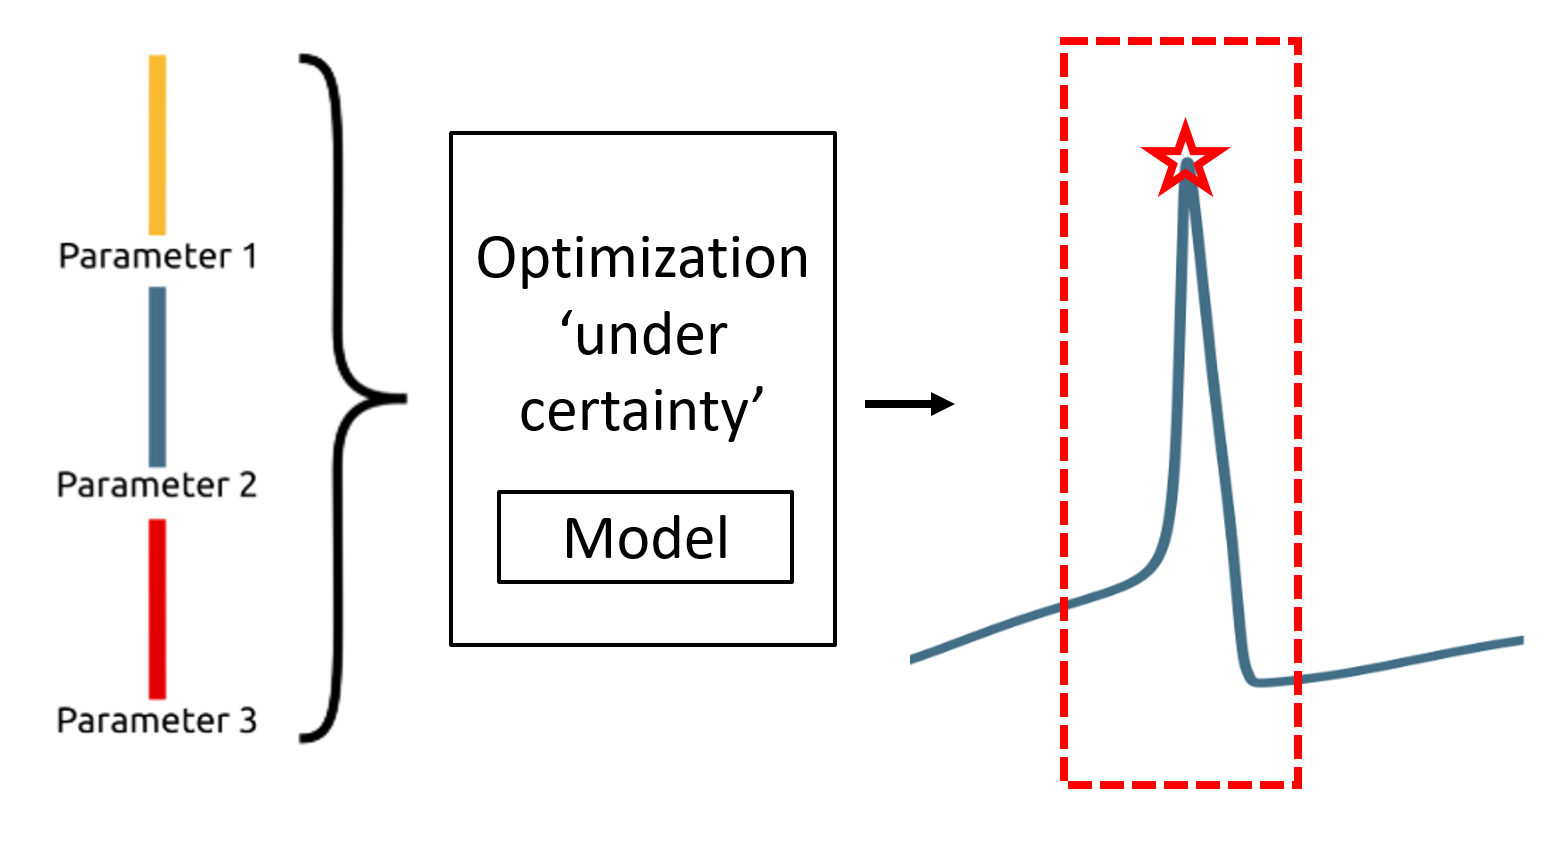
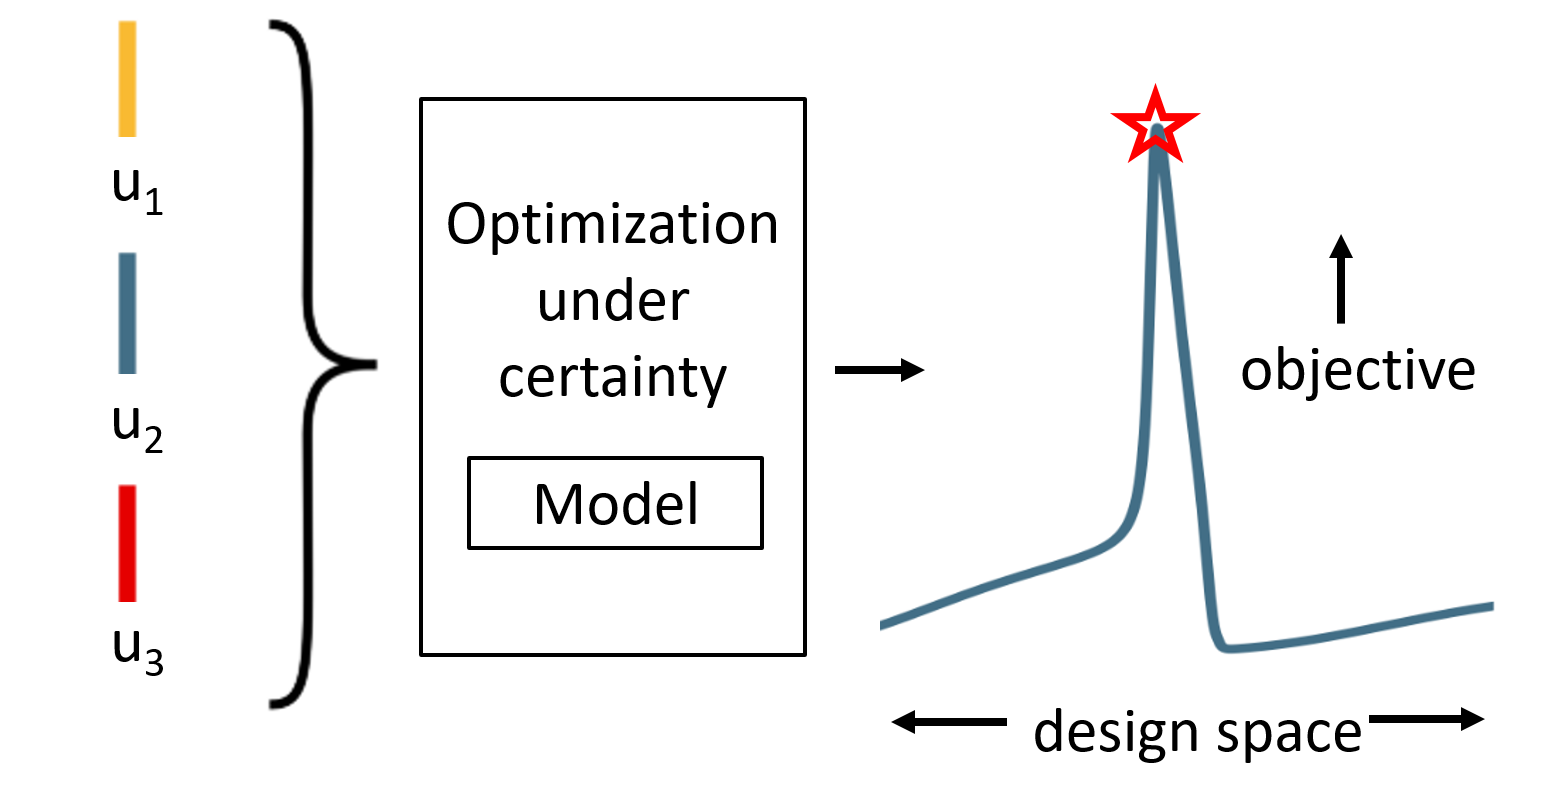
Model updates, figures, definition ro vs. so.

diff --git a/latex/introduction.tex b/latex/introduction.tex
@@ -74,7 +74,7 @@ design envelope for robust aircraft design.
 Furthermore, Liem et al. generate probability distributions
 of uncertain parameters and minimize the expectation of an objective function over
 parameter distributions~\cite{Liem2017}. Much like the proposed \gls{rsp} formulation,
-Liem's method converts a stochastic design problem into a deterministic problem
+Liem et al. convert a stochastic design problem into a deterministic problem
 to improve its tractability.
 Although these multi-point methods demonstrate significant improvements over
 legacy design methods in terms of design robustness,
@@ -90,22 +90,56 @@ More notably, they lack rigorous mathematical assessments of design feasibility
 under uncertain parameters.}
 
 There are two rigorous approaches to solving design optimization problems under uncertainty,
-which are \gls{so} and \gls{ro}. Note that stochastic
+which are \gls{so} and \gls{ro}, contrasted in Figure~\ref{fig:approaches} and defined below. Note that stochastic
 optimization is an overloaded term, and exists in at least two contexts in the literature. The first is the solution
 of deterministic problems with stochastic search space exploration. The second is the solution
 of design optimization problems with stochastic parameters, which is the focus of this paper.
-In this context, \gls{so} problems deal with uncertainty by propagating the probability distributions of
-uncertain parameters through the
-physics of a design problem to ensure constraint feasibility with certain probability.
-The predominant goal of \gls{so} is to minimize some characteristics, for example moments or risk measures,
-of the probability density function of the quantity of interest~\cite{Diwekar2008}.
-\gls{ro} takes a different approach, instead choosing to make designs immune to
-uncertainties in parameters as long as the parameter values come from within a defined
-uncertainty set. As such, \gls{ro} avoids the need to propagate entire probability
-distributions by minimizing the worst-case objective outcome of a design for a
-given set over the uncertain parameters.
 
-%TODO: put stochastic vs robust optimization plots.
+{\color{blue}
+
+\begin{figure}
+\begin{center}
+    \begin{subfigure}{.51\textwidth}
+    \centering
+        \includegraphics[width=.8\linewidth]{figures/ouc.PNG}
+    \end{subfigure}
+    \begin{subfigure}{.49\textwidth}
+    \centering
+        \includegraphics[width=.9\linewidth]{figures/so.PNG}
+    \end{subfigure}
+    \begin{subfigure}{.49\textwidth}
+    \centering
+        \includegraphics[width=.9\linewidth]{figures/ro.PNG}
+    \end{subfigure}
+    \caption{\gls{so} and \gls{ro} are methods for optimization under uncertainty that use different definitions
+             of uncertain inputs and produce different objective outcomes.}
+    \label{fig:approaches}
+\end{center}
+\end{figure}
+
+\gls{so} pairs well with gradient-based approaches to solving nonlinear optimization problems
+such as those defined in ~\cite{Gallard2013},~\cite{Liem2015} and ~\cite{Liem2017}.
+These approaches implement an iterative process where
+the objective function and constraints are evaluated over an initial design, and first- and/or
+second-order information are used to converge the design towards a local optimum.
+In this context, \gls{so} problems deal with uncertainty by including
+probability distributions of the uncertain parameters in the iteration, and propagating
+the distributions through the physics of a design problem to ensure constraint feasibility with certain probability.
+The predominant goal of \gls{so} is to optimize some distributional
+characteristics, eg. the mean as in Figure~\ref{fig:approaches},
+of the probability density function of the objective~\cite{Diwekar2008}.
+
+\gls{ro} can only be applied to mathematical programs that have a robust counterpart,
+such as linear, quadratic, semidefinite and geometric programs.
+\gls{ro} takes a different approach than \gls{so} in both the form
+of uncertain inputs and the objective functions. \gls{ro} produces designs that are
+immune to constraint violations as long as the parameter values come from within a defined
+uncertainty set. The objective of \gls{ro} is to optimize the
+the worst-case objective outcome of a design for a
+given set over the uncertain parameters. As such,
+\gls{ro} avoids the need to sample and propagate probability
+distributions, and turns stochastic optimization problems into
+deterministic problems that are efficiently solved.}
 
 \subsection{Comparison of robust and stochastic optimization methods for conceptual design}
 \label{sec:robustvsstochastic}
@@ -133,8 +167,7 @@ counterpart. Thus models for \gls{ro} have to be transparent,
 and \gls{ro} cannot be applied to black box models without significant prior data
 manipulation at a minimum. A mitigating factor is that
 many classes of conceptual engineering design problems can be cast or approximated in a form that
-is compatible with robust optimization, such as linear, quadratic, semidefinite
-and geometric programs.
+is compatible with robust optimization.
 
 On the other hand, \gls{ro} is more tractable than \gls{so} due to the difference in method of uncertainty propagation.
 As aforementioned, \gls{so} methods involve the propagation of probability densities throughout a model

diff --git a/review_files/responses.tex b/review_files/responses.tex
@@ -41,23 +41,21 @@ Abstract has been updated to emphasize the caveat: "provided that each constrain
 
 The bullets have been reworded and converted to prose as suggested. 
 
-\textit{pg. 3: The following references use a multimission/multipoint approach that go beyond the naive approach mentioned in the introduction. They are based on probability density functions and/or actual flight data and should be cited:}
+\textit{pg. 3: The following references use a multimission/multipoint approach that go beyond the naive approach mentioned in the introduction. They are based on probability density functions and/or actual flight data and should be cited...}
 
 All three references have been cited and added to the the literature on multimission/multipoint approaches on pg. 3. 
-We have attempted to explain and constrast the approaches in the Gallard and Liem papers
+We have attempted to explain and contrast the approaches in the [Gallard 2013] and [Liem 2015,2017] papers
 with our method. 
 
-\textit{pg. 3: SO and RO are not well defined and their relation is not clear. An example of these two methods in a given application might help.}
+\textit{pg. 3: SO and RO are not well defined and their relation is not clear. 
+An example of these two methods in a given application might help.}
 
-TODO: Perhaps talk about Monte Carlo? Give some examples of 
+On pg. 3, I have  clarified the contexts in which each method is used, 
+and added a figure to illustrate the relationships between the parameter inputs
+and objective functions of each problem. 
 
-Simplest stochastic methods are based on Monte Carlo sampling of known distributions, and applying these to engineering
-constraints with uncertain parameters of known or estimate distributions.
-
-In reality, distributions don't exist. 
-
-
-\textit{pg. 6-7: Let's also call the functions and parameters by their names in the context of optimization to improve clarity: "objective" f0, "constraints" fi, and "design variables" x. And make clear that the uncertain parameters are other parameters that in a deterministic problem would be fixed.}
+\textit{pg. 6-7: Let's also call the functions and parameters by their names in the context of optimization to improve clarity: 
+"objective" f0, "constraints" fi, and "design variables" x. And make clear that the uncertain parameters are other parameters that in a deterministic problem would be fixed.}
 
 I have referred to the functions in the context of optimization as suggested. Furthermore, 
 a clarification has been added to Section II.A to explain the relationship between uncertain parameters and the 
@@ -70,13 +68,15 @@ The oversight has been corrected in all instances of design problem statement in
 \textit{pg. 7: Do you have issues with the max function being discontinuous and causing issues?}
 
 This is not an issue in the particular implementation of the method
-Since the method leverages existing robust linear programming
+Since the method leverages existing robust linear programming (RLP)
 methods, the maximum is a continuous and convex function. 
 In fact, the inner maximization problem can be solved analytically, using conic
 duality and the fact only parameters ($b$'s) in the robust problem are uncertain, 
 as demonstrated by Saab et al. in Appendix A, Equation 29-35 of "Robust Designs via Geometric Programming", 
 cited in the paper.
 It is this fact that allows for the robust optimization problems to be solved deterministically. 
+We did not feel that this insight warranted changes to the manuscript, since 
+Saab et al. elaborate in detail about the RLP approximation of the GP. 
 
 \textit{pg 14: "set bounds on parameters". By "parameters", you mean constraints, right? Be more precise.}
 
@@ -89,7 +89,8 @@ To avoid confusion, we have modified "bound" to "size".
 
 We agree with the reviewer, and have converted airfoil thickness to be a design variable. 
 This has required the removal of airfoil thickness and wetted area ratio from the uncertain parameters
-and the addition of two constraints to the model. This has significantly improved the model since 
+and the addition of two constraints to the model. The model definition has been
+amended to reflect these changes. The modifications have significantly improved the model since 
 airfoil thickness now is coupled to all relevant aircraft disciplines: aerodynamics, structures and 
 fuel volume. This also required changing an example in Section II 
 which explained that margin allocation for wing thickness 

diff --git a/latex/models.tex b/latex/models.tex
@@ -7,7 +7,7 @@ We optimize a wing, fuselage, and engine given a payload and range requirement.
 The optimization model was developed using GPkit, a Python package that
 provides abstractions for using \gls{gp}s in engineering design~\cite{gpkit}, and
 captures fundamental trade-offs in aircraft design.
-The nominal model has 176 variables and 154 constraints, a common level of
+The nominal model has 175 variables and 153 constraints, a common level of
 sparsity for~\gls{gp} and~\gls{sp} models.
 A short qualitative overview of the model follows; for
 more detailed information, please refer to~\cite{Burton2017} and~\cite{Ozturk2018}. The uncertainties
@@ -40,9 +40,12 @@ Lift is generated by the wing as a function of its geometry and free stream cond
 The wing structure model is based on a beam model with a distributed lift load,
 and a point mass in the center representing the fuselage.
 Wing fuel volume is modeled as a fraction of the internal volume available in the wing.
-Its drag is
-approximated simply as a sum of the induced and profile drags, the latter of which is estimated using a
-form factor. The weight of the wing is the sum of skin and spar weights.
+The weight of the wing is the sum of skin and spar weights.
+Its drag is the sum of induced and profile drags, the latter of which is
+constrained by a 3-term softmax-affine posynomial fit~\cite{Hoburg2016} of drag polars
+generated in XFOIL~\cite{XFOIL}.
+The airfoil used was designed by Prof. Mark Drela of MIT and
+is a variant of those implemented in~\cite{Burton2017}.
 
 \subsubsection{Fuselage}
 
@@ -53,7 +56,8 @@ The fuselage is assumed not to contain any structural members, and so its weight
 \subsubsection{Engine}
 
 The aircraft is powered by a naturally aspirated piston engine. It is subject to
-power lapse at lower air densities at higher altitudes. Engine weight is modeled using a posynomial fit of existing
+power lapse at lower air densities at higher altitudes. Engine weight is modeled using
+a posynomial fit~\cite{Hoburg2016} of existing
 engines. Brake specific fuel consumption is modeled as a function of maximum thrust at a given altitude.
 
 \subsection{Source of non-log-convexity: fuel volume}

diff --git a/latex/uncertainties_and_sets.tex b/latex/uncertainties_and_sets.tex
@@ -3,7 +3,8 @@
 
 As aforementioned in Section~\ref{sec:robustvsstochastic}, {\color{blue}one of the advantages
 of \gls{ro} over \gls{so} is the fact that it only requires as inputs
-the uncertainty set size instead of complete probability distributions.
+the uncertainty set size instead of complete probability distributions
+over each parameter.
 In the context of this work, the set size is defined relatively in each
 uncertain design parameter $u_i$ by $3\sigma_i$, and globally by scalar parameter
 $\Gamma$. An illustration of the relationship between $3\sigma$'s and $\Gamma$
@@ -16,7 +17,7 @@ The relative size of the uncertainty set in each uncertain variable is
 given by three times the \gls{cv}\footnote{The \gls{cv}
 is defined as follows: $\text{CV} = \frac{\sigma}{|\mu|}$,
 where $\sigma$ is the standard deviation and $\mu$ is the mean of the parameter.},
-are listed in Table~\ref{tab:uncertainties}.} Since for the rest of this work
+as listed in Table~\ref{tab:uncertainties}.} Since for the rest of this work
 all standard deviations ($\sigma$) are normalized by the means of the parameters, we will use $3\sigma$
 to represent $3\text{CV}$.
 
@@ -109,7 +110,7 @@ rigorously defined in the context of robust linear programming in~Appendix~\ref{
 \end{figure}
 
 For box uncertainty,
-$\Gamma$ scales the width of the L$\infty$ hypercube, whose dimensionality is the same as the number of uncertain parameters (14).
+$\Gamma$ scales the width of the L$\infty$ hypercube, whose dimensionality is the same as the number of uncertain parameters (12).
 More intuitively, $\Gamma \times 3\sigma_i$ defines the range of the possible values of uncertain parameter $u_i$,
 normalized by the mean of $u_i$.
 It can be easy to assume that using margins and box uncertainty sets will yield the same designs,

diff --git a/latex/shared.tex b/latex/shared.tex
@@ -40,6 +40,8 @@ postaction = {draw,line width=1.4pt, white,shorten >= 4.5pt}]
 \newacronym{ro}{RO}{Robust Optimization}
 \newacronym{so}{SO}{Stochastic Optimization}
 \newacronym{mdo}{MDO}{Multidisciplinary Design Optimization}
+\newacronym{ouc}{OuC}{Optimization under Certainty}
+\newacronym{ouu}{OuU}{Optimization under Uncertainty}
 \newacronym{cv}{CV}{coefficient of variation}
 
 \newcolumntype{C}[1]{>{\centering\arraybackslash}m{#1}}
